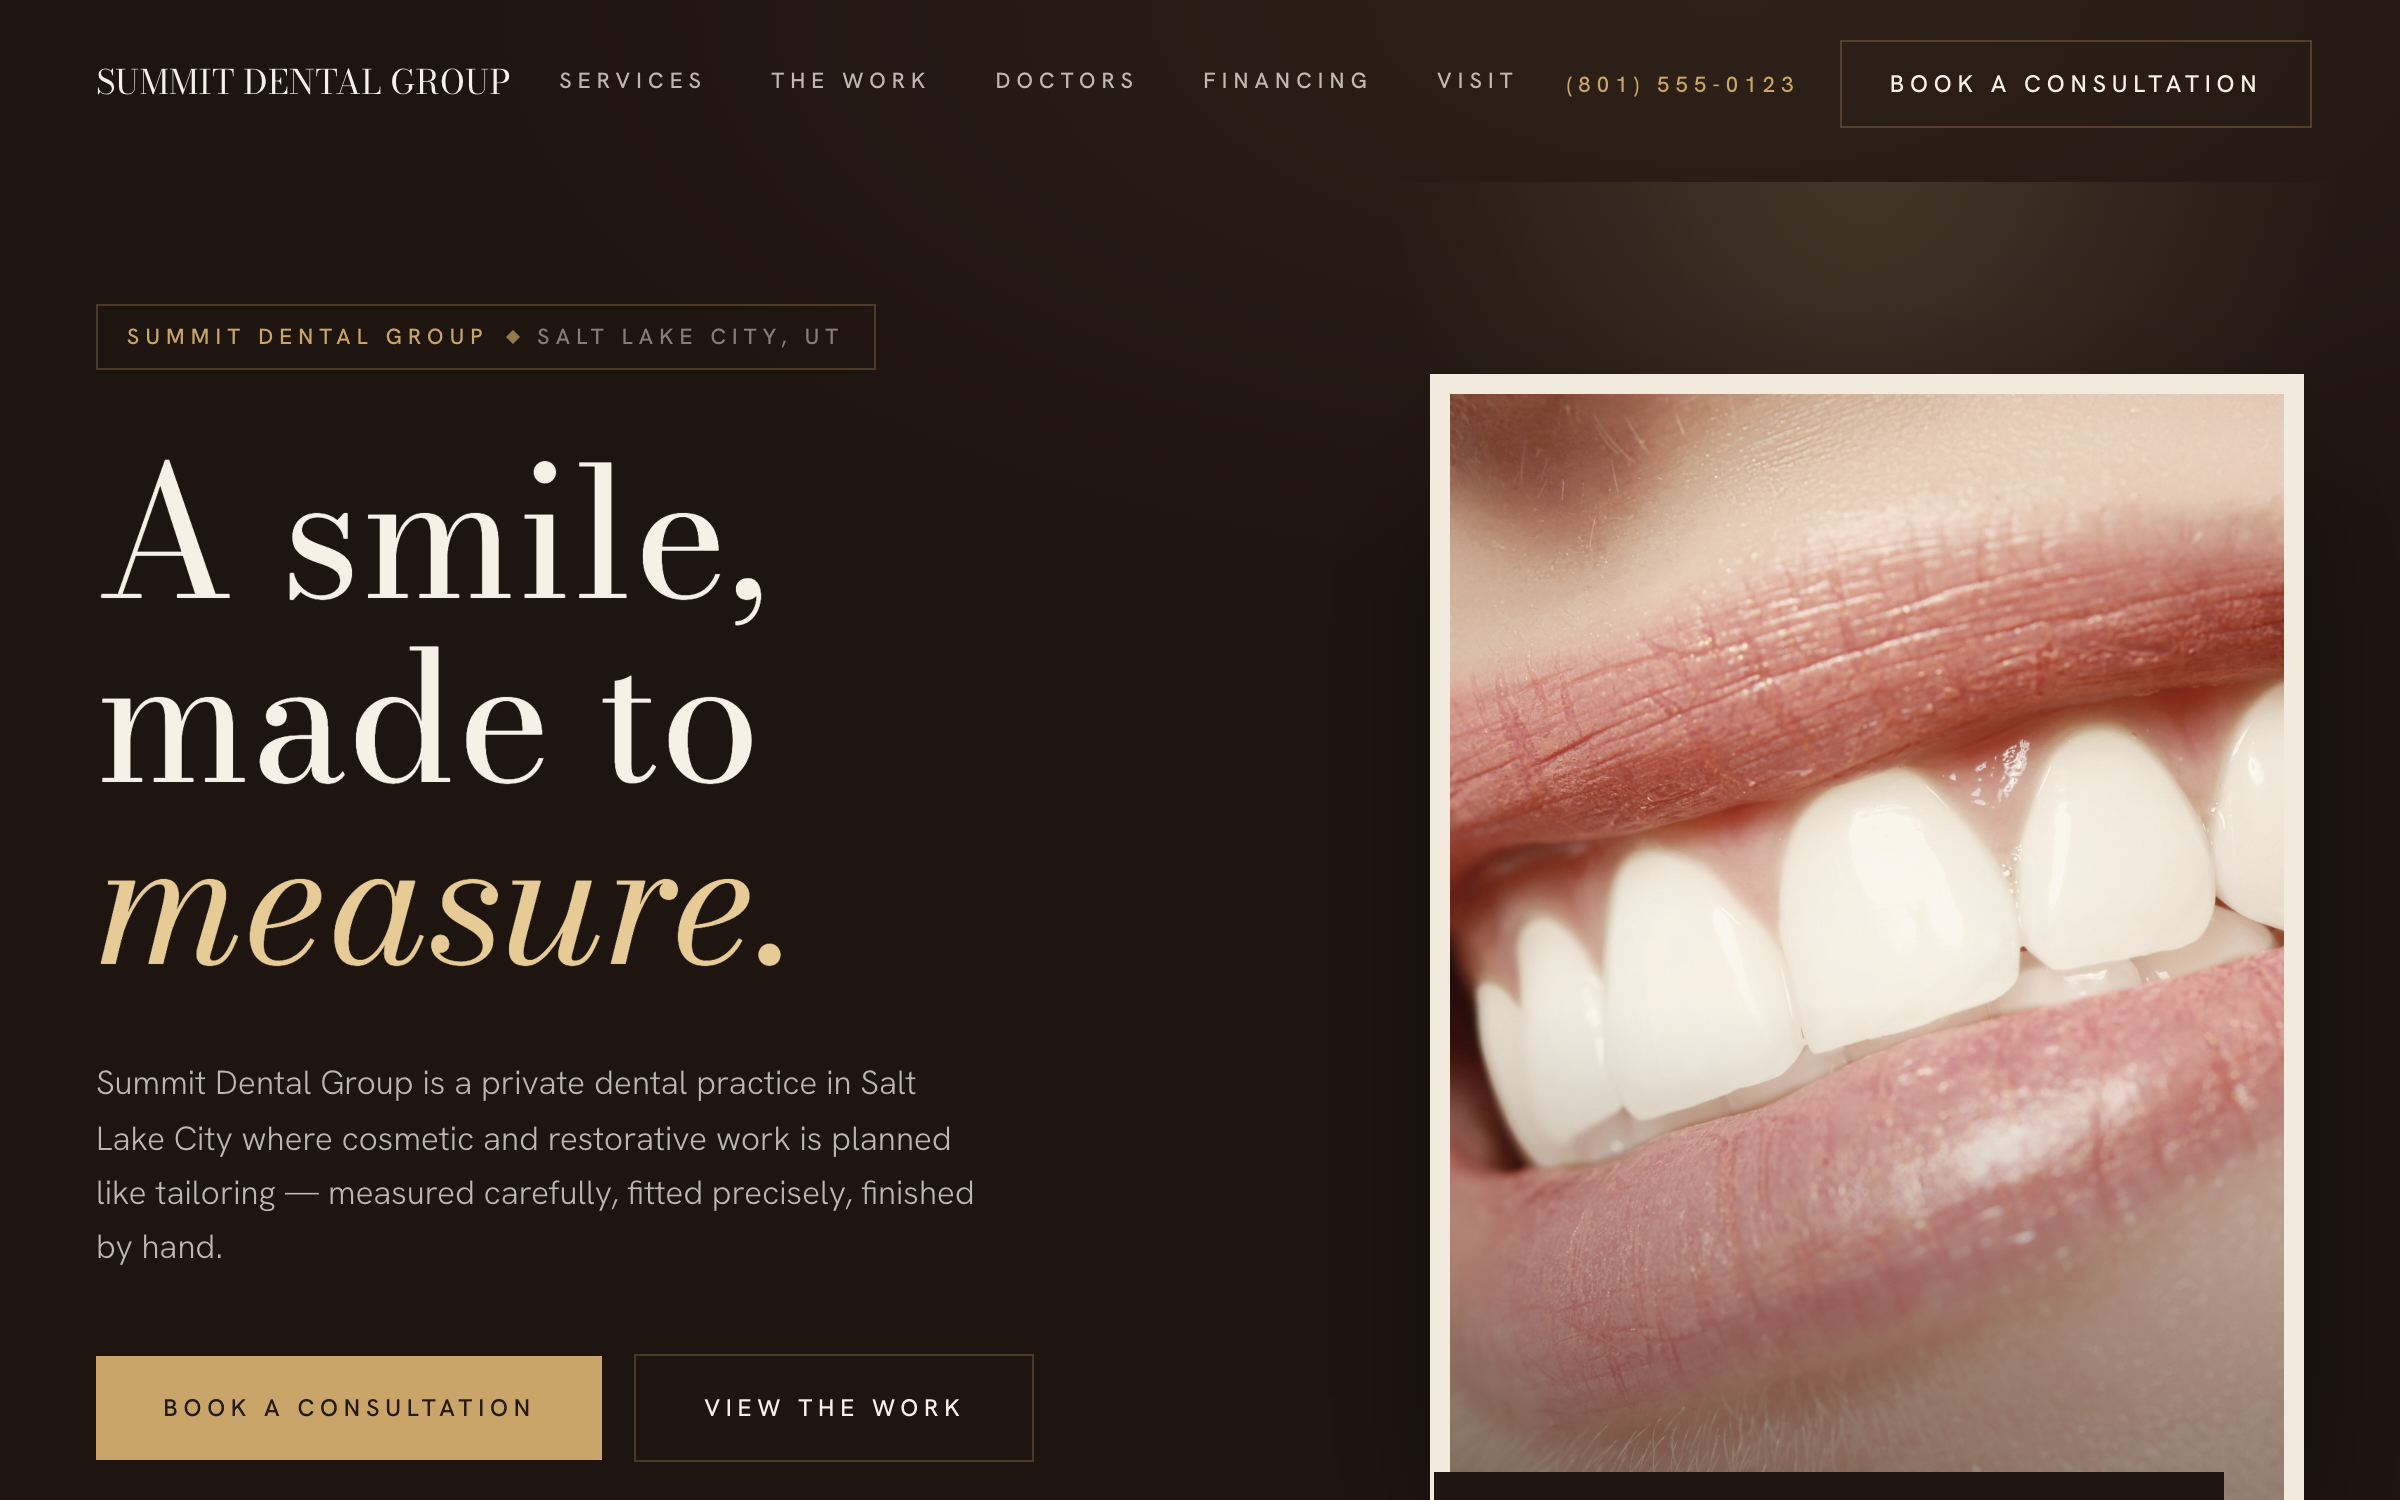
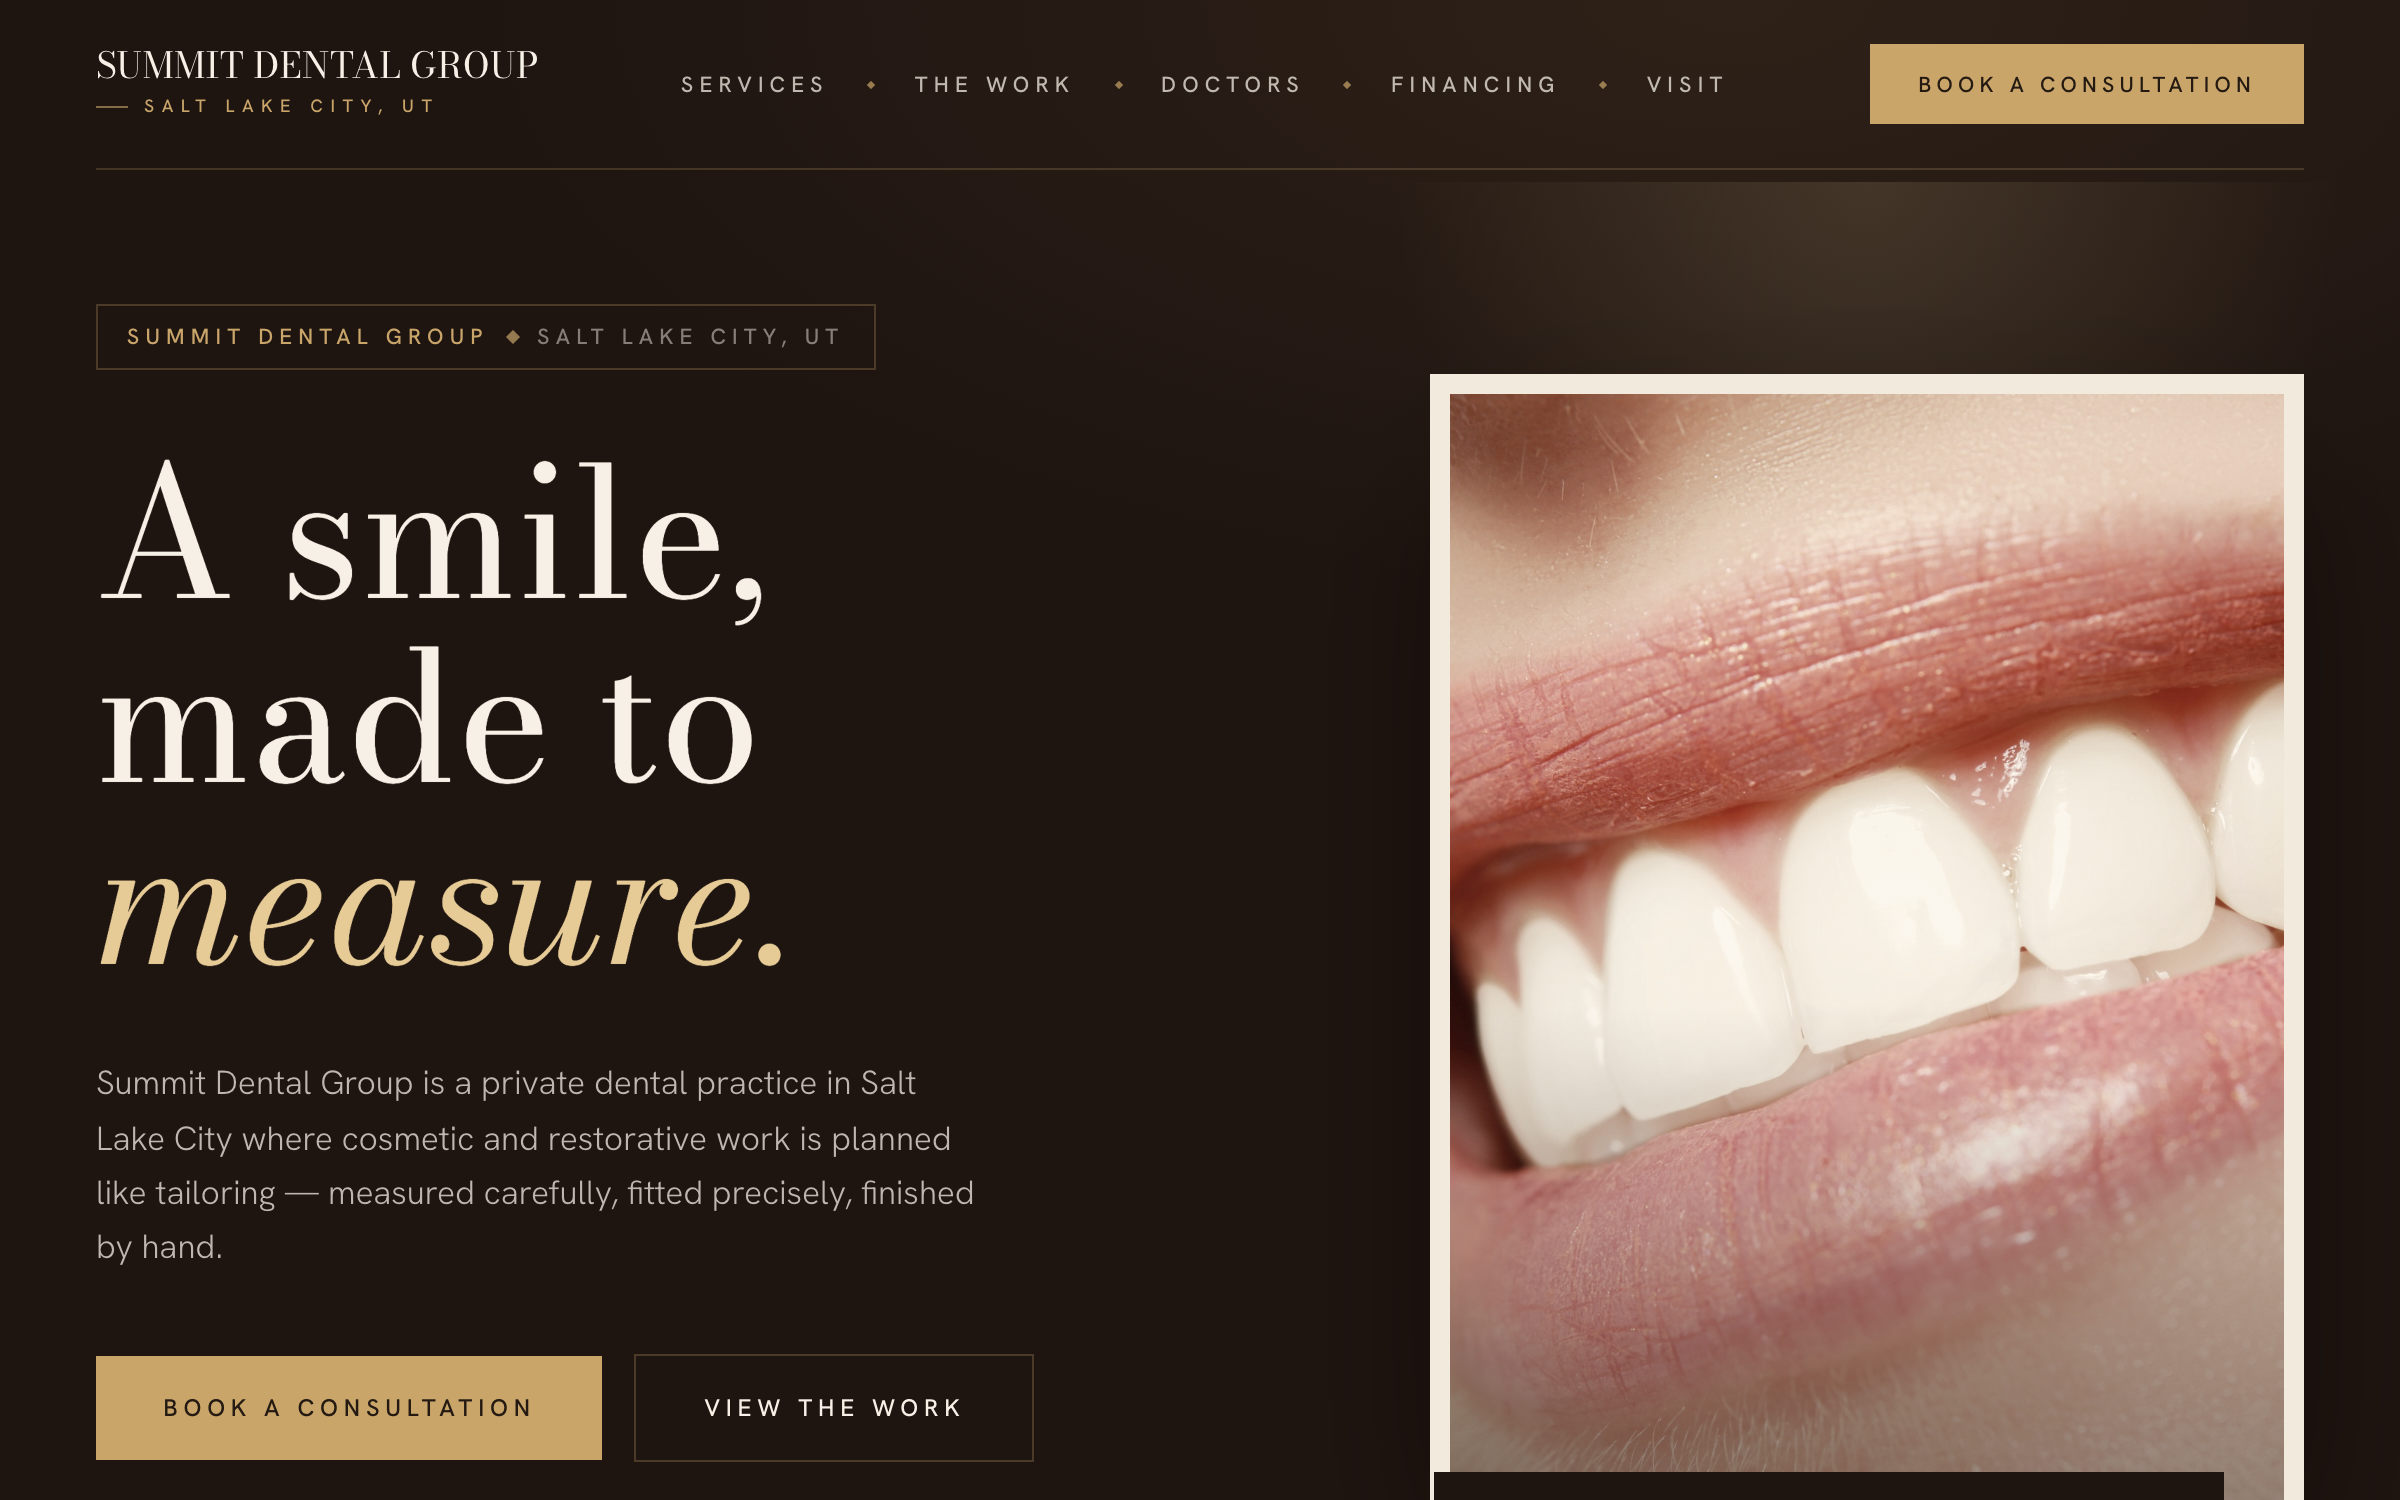
updates

diff --git a/app/(templates)/t4/components/T4Nav.tsx b/app/(templates)/t4/components/T4Nav.tsx
@@ -1,6 +1,6 @@
 "use client";
 
-import { useEffect, useState } from "react";
+import { Fragment, useEffect, useState } from "react";
 import { motion, useReducedMotion } from "framer-motion";
 import { ATELIER_EASE } from "./T4Reveal";
 
@@ -8,6 +8,7 @@ interface T4NavProps {
   practiceName: string;
   phone: string;
   city: string;
+  state: string;
   bookingUrl: string;
 }
 
@@ -23,6 +24,7 @@ export default function T4Nav({
   practiceName,
   phone,
   city,
+  state,
   bookingUrl,
 }: T4NavProps) {
   const [scrolled, setScrolled] = useState(false);
@@ -53,54 +55,76 @@ export default function T4Nav({
         initial={reduced ? false : { opacity: 0, y: -14 }}
         animate={{ opacity: 1, y: 0 }}
         transition={{ duration: 1, ease: ATELIER_EASE }}
-        className="fixed inset-x-0 top-0 z-50 transition-[background-color,box-shadow] duration-500"
+        className="fixed inset-x-0 top-0 z-50 transition-[background-color] duration-500"
         style={{
-          backgroundColor: scrolled ? "rgba(23, 16, 10, 0.92)" : "transparent",
-          backdropFilter: scrolled ? "blur(10px)" : "none",
-          WebkitBackdropFilter: scrolled ? "blur(10px)" : "none",
-          boxShadow: scrolled ? "0 1px 0 rgba(201,165,106,0.18)" : "none",
+          backgroundColor: scrolled ? "rgba(23, 16, 10, 0.94)" : "transparent",
+          backdropFilter: scrolled ? "blur(12px)" : "none",
+          WebkitBackdropFilter: scrolled ? "blur(12px)" : "none",
         }}
       >
         <nav
           aria-label="Primary"
-          className="mx-auto flex max-w-[88rem] items-center justify-between gap-6 px-6 py-5 lg:px-12"
+          className="mx-auto grid max-w-[88rem] grid-cols-[auto_1fr_auto] items-center gap-6 px-6 transition-[padding] duration-500 lg:px-12"
+          style={{
+            paddingTop: scrolled ? "0.875rem" : "1.375rem",
+            paddingBottom: scrolled ? "0.875rem" : "1.375rem",
+          }}
         >
-          {/* wordmark */}
-          <a href="#top" className="flex items-baseline gap-3">
-            <span className="t4-display whitespace-nowrap text-[1.05rem] uppercase tracking-[0.18em] text-[var(--t4-ivory)]">
+          {/* the lockup — house over city, like a label stitched in a collar */}
+          <a href="#top" className="group flex flex-col gap-1">
+            <span className="t4-display whitespace-nowrap text-[1.02rem] uppercase leading-none tracking-[0.22em] text-[var(--t4-ivory)] transition-colors duration-300 group-hover:text-[var(--t4-champagne-bright)] sm:text-[1.12rem]">
               {practiceName}
             </span>
-            <span className="t4-label hidden whitespace-nowrap text-[var(--t4-champagne)] xl:inline">
-              {city}
+            <span className="flex items-center gap-2">
+              <span
+                aria-hidden
+                className="h-px w-4 bg-[var(--t4-champagne)] opacity-60"
+              />
+              <span className="t4-label whitespace-nowrap !text-[0.56rem] !tracking-[0.42em] text-[var(--t4-champagne)]">
+                {city}, {state}
+              </span>
             </span>
           </a>
 
-          {/* desktop links */}
-          <div className="hidden items-center gap-8 lg:flex">
-            {LINKS.map((l) => (
-              <a
-                key={l.href}
-                href={l.href}
-                className="t4-link t4-label whitespace-nowrap text-[var(--t4-ivory-soft)] transition-colors duration-300 hover:text-[var(--t4-ivory)]"
-              >
-                {l.label}
-              </a>
+          {/* the row of rooms, set with diamond pins */}
+          <div className="hidden items-center justify-center gap-5 lg:flex xl:gap-6">
+            {LINKS.map((l, i) => (
+              <Fragment key={l.href}>
+                {i > 0 && (
+                  <span
+                    aria-hidden
+                    className="t4-diamond !h-[3px] !w-[3px] opacity-40"
+                  />
+                )}
+                <a
+                  href={l.href}
+                  className="t4-link t4-label whitespace-nowrap py-1 text-[var(--t4-ivory-soft)] transition-colors duration-300 hover:text-[var(--t4-ivory)]"
+                >
+                  {l.label}
+                </a>
+              </Fragment>
             ))}
           </div>
 
-          <div className="flex items-center gap-5">
+          {/* the standing invitation */}
+          <div className="flex items-center justify-end gap-6">
             <a
               href={telHref}
-              className="t4-label hidden whitespace-nowrap text-[var(--t4-champagne)] transition-colors duration-300 hover:text-[var(--t4-champagne-bright)] md:inline"
+              className="hidden flex-col items-end gap-1 xl:flex"
             >
-              {phone}
+              <span className="t4-label !text-[0.56rem] !tracking-[0.36em] text-[var(--t4-ivory-faint)]">
+                By appointment
+              </span>
+              <span className="t4-link t4-label whitespace-nowrap !tracking-[0.2em] text-[var(--t4-champagne)]">
+                {phone}
+              </span>
             </a>
             <a
               href={bookHref}
               {...(bookingUrl !== "none"
                 ? { target: "_blank", rel: "noopener noreferrer" }
                 : {})}
-              className="t4-btn-outline max-md:!hidden whitespace-nowrap !px-6 !py-3"
+              className="t4-btn-solid max-md:!hidden whitespace-nowrap !px-6 !py-3 !text-[0.68rem]"
             >
               Book a consultation
             </a>
@@ -111,17 +135,17 @@ export default function T4Nav({
               aria-expanded={open}
               aria-controls="t4-menu"
               onClick={() => setOpen(!open)}
-              className="flex h-11 w-11 flex-col items-center justify-center gap-[7px] lg:hidden"
+              className="flex h-11 w-11 flex-col items-center justify-center gap-[7px] border border-[var(--t4-line-dark)] transition-colors duration-300 hover:border-[var(--t4-champagne)] lg:hidden"
             >
               <span className="sr-only">{open ? "Close menu" : "Open menu"}</span>
               <span
-                className="block h-px w-6 bg-[var(--t4-ivory)] transition-transform duration-500"
+                className="block h-px w-5 bg-[var(--t4-ivory)] transition-transform duration-500"
                 style={{
                   transform: open ? "translateY(4px) rotate(45deg)" : "none",
                 }}
               />
               <span
-                className="block h-px w-6 bg-[var(--t4-champagne)] transition-transform duration-500"
+                className="block h-px w-5 bg-[var(--t4-champagne)] transition-transform duration-500"
                 style={{
                   transform: open ? "translateY(-4px) rotate(-45deg)" : "none",
                 }}
@@ -129,41 +153,69 @@ export default function T4Nav({
             </button>
           </div>
         </nav>
+
+        {/* the masthead rule — always present, brightens over the dark rooms */}
+        <div
+          aria-hidden
+          className="mx-auto h-px max-w-[88rem] transition-colors duration-500 lg:mx-12 xl:mx-auto"
+          style={{
+            backgroundColor: scrolled
+              ? "rgba(201, 165, 106, 0.38)"
+              : "rgba(201, 165, 106, 0.22)",
+          }}
+        />
       </motion.header>
 
       {/* mobile menu — a dark room of its own */}
       <div
         id="t4-menu"
         aria-hidden={!open}
-        className="fixed inset-0 z-40 flex flex-col justify-between bg-[var(--t4-noir)] px-6 pb-10 pt-28 transition-opacity duration-500 lg:hidden"
+        className="fixed inset-0 z-[45] flex flex-col justify-between bg-[var(--t4-noir)] px-6 pb-10 pt-28 transition-opacity duration-500 lg:hidden"
         style={{
           opacity: open ? 1 : 0,
           pointerEvents: open ? "auto" : "none",
         }}
       >
-        <div className="flex flex-col gap-1">
+        <div className="flex flex-col">
           {LINKS.map((l, i) => (
             <a
               key={l.href}
               href={l.href}
               onClick={() => setOpen(false)}
-              className="t4-display border-b border-[var(--t4-line-dark)] py-4 text-[2rem] text-[var(--t4-ivory)] transition-colors duration-300 hover:text-[var(--t4-champagne-bright)]"
+              className="flex items-baseline justify-between border-b border-[var(--t4-line-dark)] py-4"
               style={{
                 transitionDelay: open ? `${80 + i * 45}ms` : "0ms",
                 opacity: open ? 1 : 0,
                 transform: open ? "none" : "translateY(10px)",
                 transition:
-                  "opacity 0.6s cubic-bezier(0.22,1,0.36,1), transform 0.6s cubic-bezier(0.22,1,0.36,1), color 0.3s",
+                  "opacity 0.6s cubic-bezier(0.22,1,0.36,1), transform 0.6s cubic-bezier(0.22,1,0.36,1)",
               }}
             >
-              {l.label}
+              <span className="t4-display text-[1.9rem] text-[var(--t4-ivory)]">
+                {l.label}
+              </span>
+              <span className="t4-numeral text-[0.8rem] text-[var(--t4-champagne)] opacity-70">
+                {String(i + 1).padStart(2, "0")}
+              </span>
             </a>
           ))}
         </div>
 
-        <div className="flex flex-col gap-4">
-          <a href={telHref} className="t4-label text-[var(--t4-champagne)]">
-            {phone}
+        <div
+          className="flex flex-col gap-5"
+          style={{
+            transitionDelay: open ? "320ms" : "0ms",
+            opacity: open ? 1 : 0,
+            transition: "opacity 0.6s cubic-bezier(0.22,1,0.36,1)",
+          }}
+        >
+          <a href={telHref} className="flex flex-col gap-1">
+            <span className="t4-label !text-[0.56rem] !tracking-[0.36em] text-[var(--t4-ivory-faint)]">
+              By appointment
+            </span>
+            <span className="t4-label !tracking-[0.2em] text-[var(--t4-champagne)]">
+              {phone}
+            </span>
           </a>
           <a
             href={bookHref}

diff --git a/app/(templates)/t4/page.tsx b/app/(templates)/t4/page.tsx
@@ -58,6 +58,7 @@ export default function Template4Page() {
         practiceName={globalPracticeName}
         phone={location.phoneGBP}
         city={location.cityServed}
+        state={location.stateServed}
         bookingUrl={onlineBookingUrl}
       />
 
